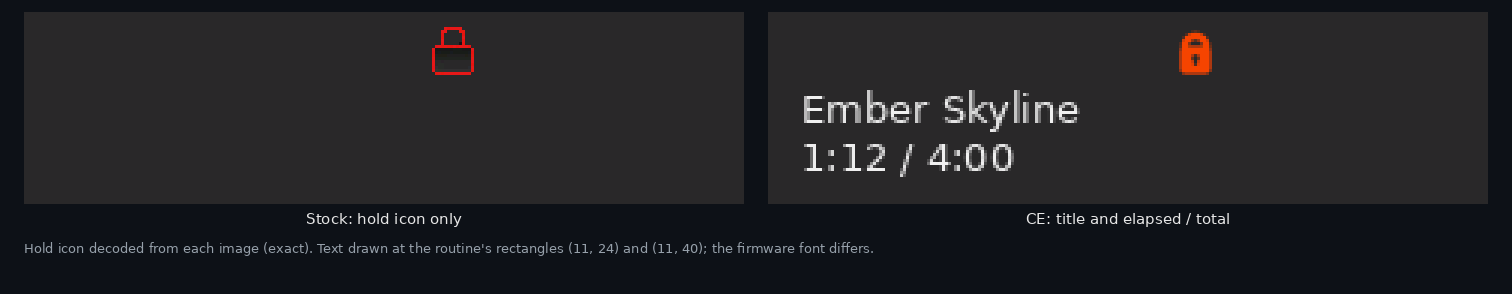
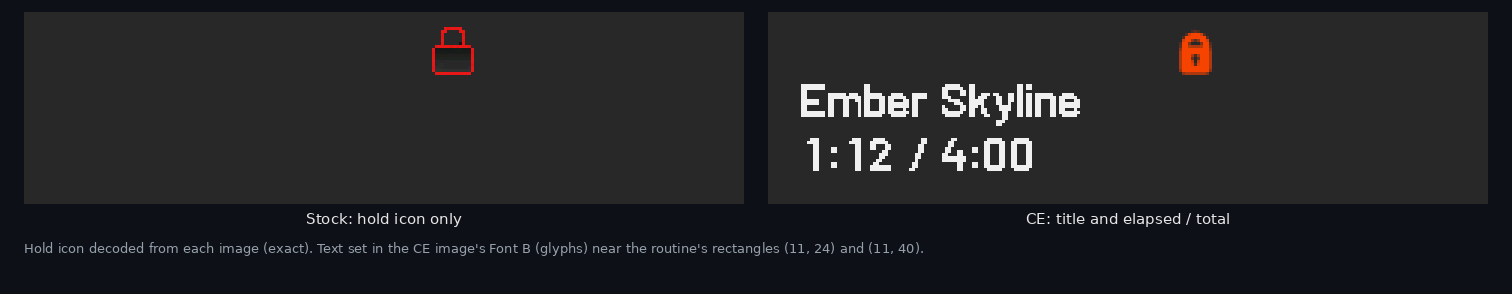
Show the new menu font and screen art in the README
render_readme.py gains two figures from the images themselves: stock
and CE menus and file lists set in each image's own Font B records with
the firmware's advance rule (media/menus.png), and 4x details of the
low-battery dialogs, power-off text and progress bar (media/screens.png).
The lock-screen figure now uses the real font too.

Claude-Session: https://claude.ai/code/session_01DtDjEfMUKCmDPyJCNnNFCR

Changed region(s): [[0.5284, 0.2755, 0.7149, 0.5816], [0.2176, 0.8265, 0.6217, 0.8878]]

diff --git a/tools/render_readme.py b/tools/render_readme.py
@@ -14,6 +14,10 @@ Every figure says where its pixels come from:
   composed   the progress bar: the image's own column and knob resources
              (187, 188, 220) placed at the coordinates module 27 uses
              (patches/ui_features/renderer/renderer.md)
+  glyphs     text set from the image's own Font B records with the
+             firmware's advance rule (0x030627BE, ported in
+             patches/antialias/generate_font.py); the list layout around
+             it (row height, margins, selection bar) is drawn
   drawn      cover art, title and artist text and time labels, drawn by
              this script at approximate positions (the painter code that
              draws them needs a mounted card, so it cannot run offline)
@@ -44,6 +48,7 @@ def load_module(name, path):
 
 
 KT = load_module('keyed', REPO / 'patches/design_refresh_v4/test_keyed_transport.py')
+GF = load_module('genfont', REPO / 'patches/antialias/generate_font.py')
 DARK_GROUND = 0x10A2            # stock dark player ground (theater default)
 BG = (13, 17, 23)               # figure background
 CAPTION = (230, 230, 230)
@@ -79,6 +84,22 @@ class Fw:
         img = Image.new('RGB', (w, h))
         img.putdata([rgb(v) for (v,) in struct.iter_unpack('>H', data)])
         return img
+
+    def text(self, img, x, y, s, ink):
+        """Set s with this image's Font B records and the firmware's
+        advance rule; returns the end x."""
+        base = Firmware(self.raw).sections['font_b']['offset']
+        for ch in s:
+            cp = ord(ch)
+            rec = self.raw[base + cp * GF.STRIDE:base + (cp + 1) * GF.STRIDE]
+            for gy in range(GF.ROWS):
+                row = int.from_bytes(rec[2 * gy:2 * gy + 2], 'big')
+                for gx in range(16):
+                    if row & (0x8000 >> gx) and 0 <= x + gx < img.width \
+                            and 0 <= y + gy < img.height:
+                        img.putpixel((x + gx, y + gy), ink)
+            x += GF.advance(rec, cp)
+        return x
 
     def paint(self, ground, a=0, b=0, play=1, theme=0):
         """Run the real painter segment; return the 240x320 framebuffer."""
@@ -283,16 +304,91 @@ def fig_lockscreen(stock, ce, out):
     def screen(fw, extra):
         img = Image.new('RGB', (240, 64), rgb(0x2945))
         img.paste(fw.resource(39), (135, 4))
-        d = ImageDraw.Draw(img)
         if extra:
-            d.text((11, 24), 'Ember Skyline', fill=(240, 240, 240), font=font(13))
-            d.text((11, 40), '1:12 / 4:00', fill=(240, 240, 240), font=font(13))
+            fw.text(img, 11, 22, 'Ember Skyline', (240, 240, 240))
+            fw.text(img, 11, 40, '1:12 / 4:00', (240, 240, 240))
         return img
     framed([screen(stock, False), screen(ce, True)],
            ['Stock: hold icon only', 'CE: title and elapsed / total'], scale=3, gap=24,
-           note='Hold icon decoded from each image (exact). Text drawn at the routine\'s '
-                'rectangles (11, 24) and (11, 40); the firmware font differs.'
+           note='Hold icon decoded from each image (exact). Text set in the CE image\'s '
+                'Font B (glyphs) near the routine\'s rectangles (11, 24) and (11, 40).'
            ).save(out / 'lockscreen.png')
+
+
+def fig_menus(stock, ce, out):
+    rows = ['Music', 'Playlists', 'Albums', 'Artists', 'Settings',
+            'Playback order', 'Language', 'Bluetooth', 'Sleep timer']
+    files = ['01 So What.flac', '02 Freddie Freeloader.flac', '03 Blue in Green.flac',
+             '04 All Blues.flac', '05 Flamenco Sketches.flac', 'Café del Mar.mp3',
+             'Naïve Melody.flac', 'Dvořák - Largo.ogg', 'Łódź Nocturne.opus']
+
+    def screen(fw, items, sel):
+        img = Image.new('RGB', (240, 284), (0, 0, 0))
+        d = ImageDraw.Draw(img)
+        for i, t in enumerate(items):
+            y = 6 + i * 31
+            if i == sel:
+                d.rectangle([0, y, 239, y + 27], fill=rgb(0xF220))
+            fw.text(img, 12, y + 6, t, (255, 255, 255))
+        return img
+
+    framed([screen(stock, rows, 4), screen(ce, rows, 4),
+            screen(stock, files, 2), screen(ce, files, 2)],
+           ['Stock menu', 'CE menu', 'Stock file list', 'CE file list'], scale=2, gap=20,
+           title='List and menu text (Font B)',
+           note='Text set from each image\'s own Font B glyph records with the firmware\'s '
+                'advance rule (glyphs); row layout and selection bar drawn.'
+           ).save(out / 'menus.png')
+
+
+def fig_screens(stock, ce, out):
+    """Zoomed details of the baked screen art, stock beside CE."""
+    def on(fw, rid, ground):
+        r = fw.resource(rid)
+        under = Image.new('RGB', r.size, ground)
+        e = fw.res[rid]
+        px = struct.unpack_from(f'>{e["width"] * e["height"]}H', fw.raw, e['data_offset'])
+        mask = Image.new('L', r.size, 0)
+        mask.putdata([0 if v == 0xF800 else 255 for v in px])
+        under.paste(r, (0, 0), mask)
+        return under
+
+    def bar(fw, light):
+        ground = rgb(0xBEFA if light else 0x7222)
+        img = Image.new('RGB', (240, 30), ground)
+        off = 166 if light else 0
+        for i in range(148):
+            img.paste(fw.resource((187 if i < 62 else 188) + off), (46 + i, 12))
+        knob = on(fw, 220 + off, ground) if fw is ce else fw.resource(220 + off)
+        img.paste(knob, (104, 8))
+        return img
+
+    rows = [('Low battery (137)', lambda fw: on(fw, 137, (0, 0, 0)).crop((64, 90, 140, 134))),
+            ('Low battery, light (303)',
+             lambda fw: on(fw, 303, (255, 255, 255)).crop((64, 83, 140, 127))),
+            ('Powering off (294)', lambda fw: fw.resource(294).crop((60, 186, 180, 210))),
+            ('Progress bar and knob', lambda fw: bar(fw, False).crop((70, 2, 150, 28))),
+            ('Progress bar, light', lambda fw: bar(fw, True).crop((70, 2, 150, 28)))]
+    z, gap, label_w = 4, 24, 230
+    cells = [(t, f(stock), f(ce)) for t, f in rows]
+    w = max(a.width for _, a, _ in cells) * z
+    h = sum(a.height * z + gap for _, a, _ in cells)
+    sheet = Image.new('RGB', (label_w + 2 * (w + gap) + gap, 90 + h + 40), BG)
+    d = ImageDraw.Draw(sheet)
+    d.text((gap, 14), 'Screens, dialogs and progress bar', fill=CAPTION, font=font(20, True))
+    d.text((label_w, 52), 'Stock V137', fill=CAPTION, font=font(16, True))
+    d.text((label_w + w + gap, 52), 'CE standard image', fill=CAPTION, font=font(16, True))
+    y = 84
+    for title, a_, b_ in cells:
+        d.text((gap, y + a_.height * z // 2), title, fill=CAPTION, font=font(15), anchor='lm')
+        sheet.paste(a_.resize((a_.width * z, a_.height * z), Image.NEAREST), (label_w, y))
+        sheet.paste(b_.resize((b_.width * z, b_.height * z), Image.NEAREST),
+                    (label_w + w + gap, y))
+        y += a_.height * z + gap
+    d.text((gap, y + 4), 'Resources decoded from each image (exact), 4x; keyed pixels over the '
+           'screen behind them. Progress bar composed from 187/188 and knob 220 (light: +166) at '
+           'module 27\'s coordinates.', fill=SUB, font=font(13))
+    sheet.save(out / 'screens.png')
 
 
 def fig_vorbis(out):
@@ -355,6 +451,8 @@ def main():
     fig_splash(stock, ce, a.out)
     fig_browser(stock, ce, a.out)
     fig_lockscreen(stock, ce, a.out)
+    fig_menus(stock, ce, a.out)
+    fig_screens(stock, ce, a.out)
     fig_vorbis(a.out)
     for p in sorted(a.out.glob('*.png')):
         print(p, Image.open(p).size)

diff --git a/README.md b/README.md
@@ -43,12 +43,17 @@ Everything here is in the standard image; the minimal image has the sound and li
 - Selecting an `.m3u` file in the browser plays it as a playlist; next, previous and shuffle stay inside it (up to 59 tracks from up to 6 folders).
 - With hold on, the lock screen shows the track title and elapsed time.
 - A long press of Power turns Bluetooth on or off. The status icons are redrawn, and the boot splash carries a CE mark.
-- Icons and baked screen art are antialiased. The transport, status, battery and browser icons, the dialog cards, the low-battery and power-off screens, the CE splash mark and the progress bar carry smoothed edges in their pixels, so curves, diagonals and text no longer step. Art on a solid ground blends exactly into it. Art over the album-derived background (the transport glyphs and the progress bar and knob) blends toward a neutral grey. List and menu text is still 1-bit, since the firmware's glyph format has no grey levels, but its Latin glyphs are redrawn from Barlow SemiBold with 2-pixel stems and even spacing (Latin-1 and Latin Extended-A included; other scripts keep stock glyphs). Before and after: [icons](patches/antialias/mock/icons_before_after.png), [screens](patches/antialias/mock/screens_before_after.png), [list font](patches/antialias/mock/font_before_after.png).
+- Menus and lists use a redrawn font. The firmware's glyphs are 1-bit, so text can't carry grey levels, but the Latin glyphs of the list and menu font are redrawn from Barlow SemiBold: 2-pixel stems, even spacing, tabular digits, and Latin-1 and Latin Extended-A accents. It also fixes a stock layout bug that let `L` overlap the next letter. Other scripts keep their stock glyphs.
+- Icons and baked screen art are antialiased. The transport, status, battery and browser icons, the dialog cards, the low-battery and power-off screens, the CE splash mark and the progress bar carry smoothed edges in their pixels, so curves and diagonals no longer step. Art on a solid ground blends exactly into it. Art over the album-derived background (the transport glyphs and the progress bar and knob) blends toward a neutral grey.
 - Volume no longer freezes after two DAC errors, decoder clocks are lower, and the wheel timer wakes less often.
+
+![Stock and CE menus and file lists, set in each image's own list font](media/menus.png)
+
+![Low-battery dialogs, power-off text and progress bar, stock against CE, 4x](media/screens.png)
 
 ![Vorbis signal-to-noise per file, stock against CE](media/vorbis.png)
 
-More figures: [transport controls in each player state](media/transport.png), [lock screen](media/lockscreen.png), [boot splash](media/splash.png), [status icons](media/browser_icons.png).
+More figures: [transport controls in each player state](media/transport.png), [lock screen](media/lockscreen.png), [boot splash](media/splash.png), [status icons](media/browser_icons.png), [every antialiased icon](patches/antialias/mock/icons_before_after.png), [full screens](patches/antialias/mock/screens_before_after.png), [list font close-up](patches/antialias/mock/font_before_after.png).
 
 Every change is a patch file or a module transplant that [`patches/framework/build.py`](patches/framework/build.py) applies to the hash-checked stock image. The standard image composes them with [`patches/full/build/build_full.py`](patches/full/build/build_full.py), adding 6,962 bytes of code in modules 31 and 24 and filling 2,040 bytes of an unused gap in module 0; [`patches/full/README.md`](patches/full/README.md) maps where every byte lives.
 
